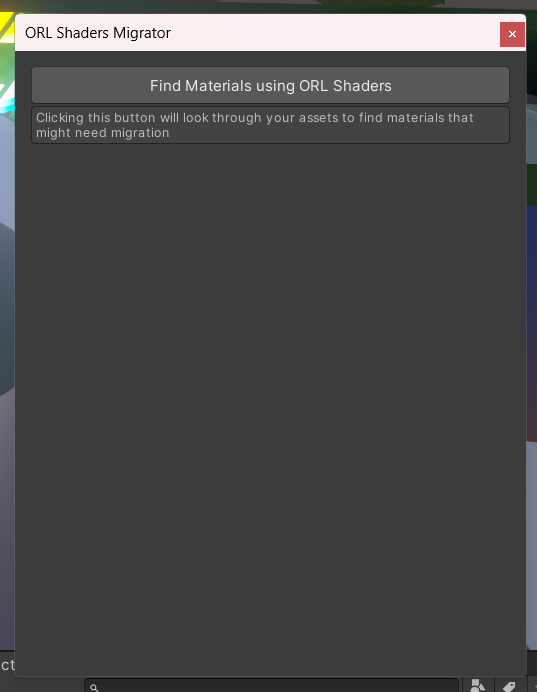
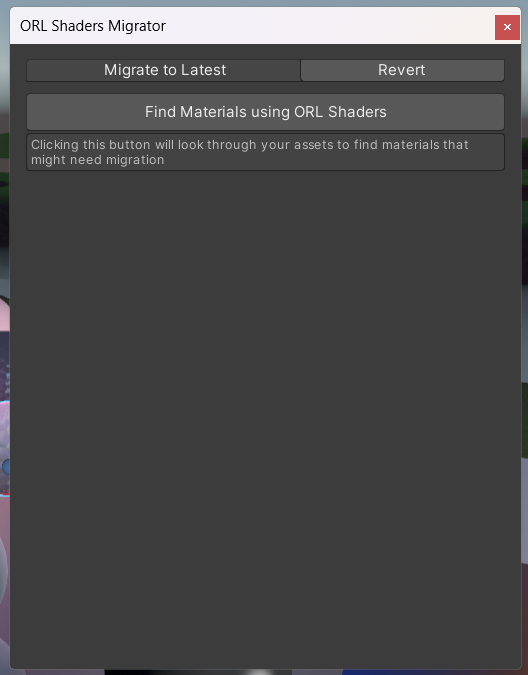
improved migration docs

Changed region(s): [[0.0, 0.0, 1.0, 1.0]]

diff --git a/docs/migration/any-to-v6.md b/docs/migration/any-to-v6.md
@@ -41,7 +41,7 @@ Coming Soon (tm)
 
 After importing the new shaders, you will need to migrate your materials, which are currently pink.
 
-You should see a new `Tools` menu in your topbar, with an `orels1` submenu inside. Click on `orels1` and then `Migrate Shaders`
+You should see a new `Tools` menu in your topbar, with an `orels1` submenu inside. Click on `orels1` and then `Migrate Materials`
 
 <p align="center">
   <img alt="Tools submenu" src="/img/docs/migration/v6/v6-migrator.png" />
@@ -67,12 +67,45 @@ If you're not comfortable migrating outright, you can check "Dry Run" to see wha
 
 When the migration is done - all of the materials should un-pink themselves. And you can now start using the new shaders.
 
+You should get a log message outline how many materials were migrated in your console. Along with some information on potentially missing shaders / invalid materials.
+
 ## Step X: Rolling Back and Troubleshooting
 
-Since this operation involves deleting stuff, I want to reassure you that you can always rollback, as long as you haven't closed the project yet and have the migration in your undo stack.
+Since this operation involves deleting stuff, I want to reassure you that you can always rollback, there are 2  ways to do so.
 
-If you migrated the shaders and things are still totally pink or there are other unpredicted errors, you can immediately ctrl+Z to revert back to the all-pink old shaders, remove ORL Shaders from your project and import the last version you've been using from github.
+### If you have **NOT** done anything after migrating
+
+As long as you haven't closed the project yet and have the migration in your undo stack (basically have not done much after migrating, so unity still has the migration in the undo history).
+
+You can immediately ctrl+Z to revert back to the all-pink old shaders, remove ORL Shaders from your project and import the last version you've been using from github.
+
+### If you have closed unity / done other things after migrating / the ctrl+Z revert didnt work
+
+You can use the Revert tool, which is included in the ORL Shaders Migrator window
+
+- Import the older version of the shaders you were using before (either v4 or v5 pre-release)
+- Click on `Tools` -> `orels1` -> `Migrate Materials`
+
+<p align="center">
+  <img alt="Tools submenu" src="/img/docs/migration/v6/v6-migrator.png" />
+</p>
+
+- Click the "Revert" tab
+
+<p align="center">
+  <img alt="Migrator Window" src="/img/docs/migration/v6/v6-migrator-window-revert.png" />
+</p>
+
+- Click "Find Materials using ORL Shaders"
+
+<p align="center">
+  <img alt="Migrator Window" src="/img/docs/migration/v6/v6-migrator-window-revert-list.png" />
+</p>
+
+- Click "Revert Now"
 
 This will restore all the references to what they were.
+
+- Delete the new packages from your Packages list: `ORL Shaders`, `ORL Shader Generator`, `ORL Shader Inspector`
 
 If you encounter issues that force you to revert, please report them [either on github](https://github.com/orels1/orels-Unity-Shaders/issues/new) or by joining the [discord](http://discord.gg/orels1) and asking for help.
